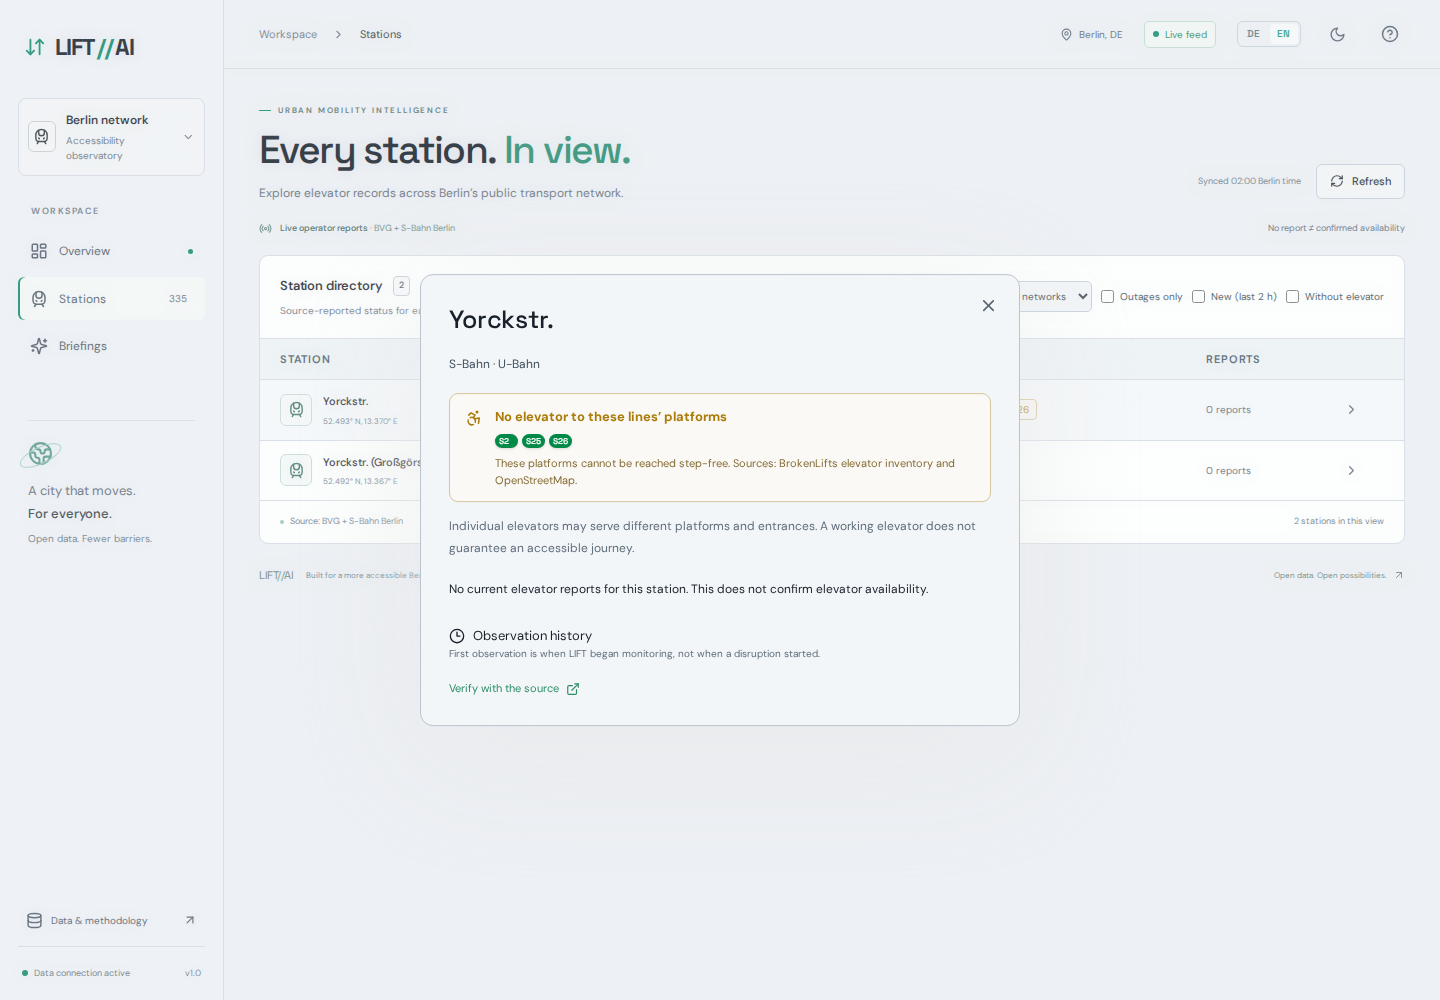
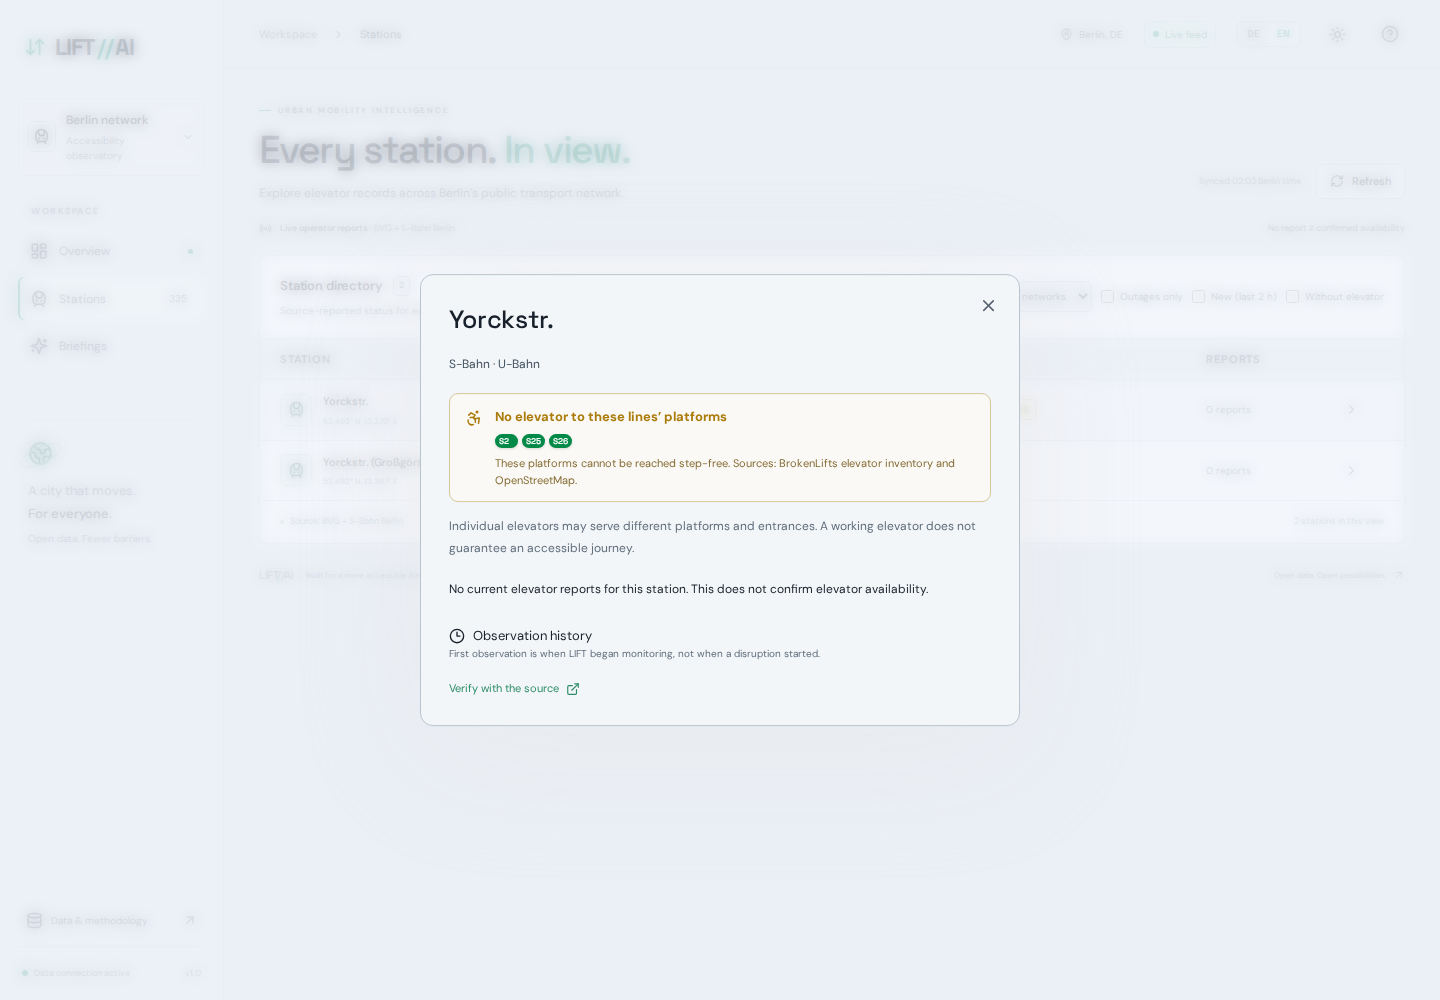
Theme menu: System (default), Light, Dark and Berlin daytime
System follows prefers-color-scheme and updates live; Daytime switches at
Berlin sunrise/sunset. The theme is resolved before first paint.

diff --git a/frontend/src/App.tsx b/frontend/src/App.tsx
@@ -1,9 +1,10 @@
 import {lazy,Suspense,useEffect,useMemo,useRef,useState,Component,type ReactNode} from 'react';
 import * as Dialog from '@radix-ui/react-dialog';
-import {Activity,ArrowDownUp,ArrowUpRight,ArrowRight,Box,Check,ChevronDown,ChevronRight,CircleHelp,Database,ExternalLink,Globe2,Layers,LayoutDashboard,LoaderCircle,MapPin,Maximize2,Menu,Radio,RefreshCw,Search,Send,Sparkles,TrainFront,TriangleAlert,X,Accessibility,Clock3,Pause,Play,Sun,Moon} from 'lucide-react';
+import {Activity,ArrowDownUp,ArrowUpRight,ArrowRight,Box,Check,ChevronDown,ChevronRight,CircleHelp,Database,ExternalLink,Globe2,Layers,LayoutDashboard,LoaderCircle,MapPin,Maximize2,Menu,Radio,RefreshCw,Search,Send,Sparkles,TrainFront,TriangleAlert,X,Accessibility,Clock3,Pause,Play,Sun,Moon,Monitor,SunMoon} from 'lucide-react';
 import {Button} from './components/ui/button';
 import type {Dashboard,Station,Briefing} from './types';
 import {strings,initialLang,saveLang,type Lang,type Strings} from './i18n';
+import {THEME_MODES,initialThemeMode,resolveTheme,saveThemeMode,type ThemeMode} from './theme';
 import lines from './data/lines.json';
 const lineColour=Object.fromEntries(lines.map(l=>[l.ref,l.colour]));
 const Network=lazy(()=>import('./components/Network'));
@@ -17,8 +18,15 @@ export default function App(){
  const [tab,setTab]=useState('Overview'),[mode,setMode]=useState('All networks'),[query,setQuery]=useState(''),[onlyOutages,setOnlyOutages]=useState(false),[noLiftOnly,setNoLiftOnly]=useState(false),[newOnly,setNewOnly]=useState(false),[view,setView]=useState('3d'),[reset,setReset]=useState(0),[selected,setSelected]=useState<Station|null>(null),[info,setInfo]=useState(false),[menu,setMenu]=useState(false),[full,setFull]=useState(false);
  const [reduced,setReduced]=useState(()=>window.matchMedia('(prefers-reduced-motion: reduce)').matches);
  const [lang,setLang]=useState<Lang>(initialLang),t=strings[lang];
- const [theme,setTheme]=useState<'light'|'dark'>(()=>document.documentElement.dataset.theme==='light'?'light':'dark');
- useEffect(()=>{document.documentElement.dataset.theme=theme;try{localStorage.setItem('lift-theme',theme);}catch{/* storage unavailable */}},[theme]);
+ const [themeMode,setThemeMode]=useState<ThemeMode>(initialThemeMode),[theme,setTheme]=useState(()=>resolveTheme(initialThemeMode())),[themeMenu,setThemeMenu]=useState(false),themeRef=useRef<HTMLDivElement>(null);
+ useEffect(()=>{
+  saveThemeMode(themeMode);const update=()=>setTheme(resolveTheme(themeMode));update();
+  // System follows OS changes live; daytime re-checks sunrise/sunset every minute.
+  const media=matchMedia('(prefers-color-scheme: dark)');media.addEventListener('change',update);const id=themeMode==='daytime'?setInterval(update,60000):undefined;
+  return()=>{media.removeEventListener('change',update);clearInterval(id);};
+ },[themeMode]);
+ useEffect(()=>{document.documentElement.dataset.theme=theme;},[theme]);
+ useEffect(()=>{if(!themeMenu)return;const close=(e:Event)=>{if(e instanceof KeyboardEvent?e.key==='Escape':!themeRef.current?.contains(e.target as Node))setThemeMenu(false);};document.addEventListener('pointerdown',close);document.addEventListener('keydown',close);return()=>{document.removeEventListener('pointerdown',close);document.removeEventListener('keydown',close);};},[themeMenu]);
  useEffect(()=>{document.documentElement.lang=lang;saveLang(lang);setChat([]);},[lang]);
  const [briefing,setBriefing]=useState<Briefing|null>(null),[aiReady,setAiReady]=useState(false),[question,setQuestion]=useState(''),[chat,setChat]=useState<{id:number;question:string;answer?:Briefing;error?:string}[]>([]),[asking,setAsking]=useState(false);
  const chatEnd=useRef<HTMLDivElement>(null);
@@ -42,7 +50,7 @@ export default function App(){
  <a className="skip-link" href="#main">{t.skip}</a>
  <aside className={`sidebar ${menu?'mobile-open':''}`}><a href="#" onClick={e=>{e.preventDefault();go('Overview');}} className="brand"><span className="brand-symbol"><ArrowDownUp size={22}/></span><span>LIFT<span className="slash">//</span>AI</span></a><div className="workspace"><span className="city-icon"><TrainFront size={17}/></span><div>{t.network}<small>{t.observatory}</small></div><ChevronDown size={14}/></div><div className="nav-caption">{t.workspace}</div><nav>{[{name:'Overview',icon:LayoutDashboard},{name:'Stations',icon:TrainFront},{name:'Briefings',icon:Sparkles}].map(({name,icon:Icon})=><button key={name} className={`nav-item ${tab===name?'active':''}`} onClick={()=>go(name)}><Icon size={18}/>{t.nav[name]}{name==='Stations'&&<span className="nav-count">{stats?.stations??'—'}</span>}{name==='Overview'&&<span className="nav-active-dot"/>}</button>)}</nav><div className="sidebar-note"><div className="orbit-icon"><Globe2 size={25}/></div><p>{t.tagline[0]}<br/><strong>{t.tagline[1]}</strong></p><span>{t.tagline[2]}</span></div><div className="sidebar-bottom"><button className="nav-item" onClick={()=>setInfo(true)}><Database size={17}/>{t.methodology}<ArrowUpRight size={14}/></button><div className="system-status"><i className={data&&!data.stale&&!error?'dot':'dot amber'}/><span>{data&&!data.stale&&!error?t.connectionActive:t.awaitingData}</span><span className="version">v1.0</span></div></div></aside>
  {menu&&<button className="mobile-backdrop" aria-label={t.closeNav} onClick={()=>setMenu(false)}/>}
- <div className="main-shell"><header className="topbar"><Button className="mobile-toggle" variant="ghost" size="icon" aria-label={t.openNav} onClick={()=>setMenu(!menu)}><Menu size={20}/></Button><div className="breadcrumb">{t.workspaceCrumb}<ChevronRight size={13}/><span>{t.nav[tab]}</span></div><div className="topbar-right"><span className="berlin-time"><MapPin size={13}/> {t.berlin}</span><span className={`live-pill ${data?.stale||error?'warn':''}`}><i className="dot"/>{error?t.live.issue:data?.stale?t.live.stale:data?t.live.live:t.live.connecting}</span><div className="lang-toggle" role="group" aria-label={t.language}>{(['de','en'] as Lang[]).map(l=><button key={l} lang={l} aria-pressed={lang===l} onClick={()=>setLang(l)}>{l.toUpperCase()}</button>)}</div><Button variant="ghost" size="icon" aria-label={theme==='dark'?t.themeLight:t.themeDark} onClick={()=>setTheme(theme==='dark'?'light':'dark')}>{theme==='dark'?<Sun size={17}/>:<Moon size={17}/>}</Button><Button variant="ghost" size="icon" aria-label={t.about} onClick={()=>setInfo(true)}><CircleHelp size={18}/></Button></div></header>
+ <div className="main-shell"><header className="topbar"><Button className="mobile-toggle" variant="ghost" size="icon" aria-label={t.openNav} onClick={()=>setMenu(!menu)}><Menu size={20}/></Button><div className="breadcrumb">{t.workspaceCrumb}<ChevronRight size={13}/><span>{t.nav[tab]}</span></div><div className="topbar-right"><span className="berlin-time"><MapPin size={13}/> {t.berlin}</span><span className={`live-pill ${data?.stale||error?'warn':''}`}><i className="dot"/>{error?t.live.issue:data?.stale?t.live.stale:data?t.live.live:t.live.connecting}</span><div className="lang-toggle" role="group" aria-label={t.language}>{(['de','en'] as Lang[]).map(l=><button key={l} lang={l} aria-pressed={lang===l} onClick={()=>setLang(l)}>{l.toUpperCase()}</button>)}</div><div className="theme-menu" ref={themeRef}><Button variant="ghost" size="icon" aria-label={`${t.theme.label}: ${t.theme[themeMode]}`} aria-haspopup="menu" aria-expanded={themeMenu} onClick={()=>setThemeMenu(!themeMenu)}>{theme==='dark'?<Moon size={17}/>:<Sun size={17}/>}</Button>{themeMenu&&<div className="theme-options" role="menu" aria-label={t.theme.label}>{THEME_MODES.map(m=>{const Icon={system:Monitor,light:Sun,dark:Moon,daytime:SunMoon}[m];return <button key={m} role="menuitemradio" aria-checked={themeMode===m} onClick={()=>{setThemeMode(m);setThemeMenu(false);}}><Icon size={15}/><span>{t.theme[m]}<small>{t.theme.hints[m]}</small></span>{themeMode===m&&<Check size={14}/>}</button>;})}</div>}</div><Button variant="ghost" size="icon" aria-label={t.about} onClick={()=>setInfo(true)}><CircleHelp size={18}/></Button></div></header>
  <main id="main"><div className="page-heading"><div><div className="eyebrow"><span/>{t.eyebrow}</div><h1>{t.heading[tab][0]}<span>{t.heading[tab][1]}</span></h1><p>{t.lead[tab]}</p></div><div className="heading-actions"><span className="last-sync">{data?t.synced(stamp(data.fetched_at)):t.establishing}</span><Button variant="outline" onClick={()=>setRefresh(v=>v+1)} disabled={loading}><RefreshCw size={14} className={loading?'spin':''}/>{t.refresh}</Button></div></div>
  {error&&<div className="notice" role="status"><TriangleAlert size={16}/>{error}{data&&t.showingLast}</div>}
  {data?.stale&&<div className="notice" role="status">{t.staleNotice}</div>}

diff --git a/frontend/index.html b/frontend/index.html
@@ -1,2 +1,2 @@
-<!doctype html><html lang="en"><head><meta charset="UTF-8"/><meta name="viewport" content="width=device-width, initial-scale=1.0"/><meta name="theme-color" content="#080b10"/><meta name="description" content="A clearer picture of accessible travel. Explore live elevator disruptions across Berlin's public transport network with LIFT//AI."/><title>LIFT//AI — Berlin, without barriers.</title><link rel="icon" type="image/svg+xml" href="/favicon.svg"/><link rel="stylesheet" href="https://fonts.googleapis.com/css2?family=DM+Sans:wght@400;450;500;550;600;650;700&amp;family=Space+Grotesk:wght@400;500;600;700&amp;display=swap"/>  <script>try{var t=localStorage.getItem('lift-theme');document.documentElement.dataset.theme=t==='light'||t==='dark'?t:matchMedia('(prefers-color-scheme: light)').matches?'light':'dark';}catch(e){document.documentElement.dataset.theme='dark';}</script>
+<!doctype html><html lang="en"><head><meta charset="UTF-8"/><meta name="viewport" content="width=device-width, initial-scale=1.0"/><meta name="theme-color" content="#080b10"/><meta name="description" content="A clearer picture of accessible travel. Explore live elevator disruptions across Berlin's public transport network with LIFT//AI."/><title>LIFT//AI — Berlin, without barriers.</title><link rel="icon" type="image/svg+xml" href="/favicon.svg"/><link rel="stylesheet" href="https://fonts.googleapis.com/css2?family=DM+Sans:wght@400;450;500;550;600;650;700&amp;family=Space+Grotesk:wght@400;500;600;700&amp;display=swap"/>  <script>/* Theme before first paint; daytime check mirrors isBerlinDaytime in src/theme.ts. */(function(){var m='system';try{m=localStorage.getItem('lift-theme')||'system';}catch(e){}function day(){var d=new Date(),r=Math.PI/180,n=(Date.UTC(d.getUTCFullYear(),d.getUTCMonth(),d.getUTCDate())-Date.UTC(d.getUTCFullYear(),0,0))/864e5,g=2*Math.PI/365*(n-1+(d.getUTCHours()-12)/24),eq=229.18*(.000075+.001868*Math.cos(g)-.032077*Math.sin(g)-.014615*Math.cos(2*g)-.040849*Math.sin(2*g)),de=.006918-.399912*Math.cos(g)+.070257*Math.sin(g)-.006758*Math.cos(2*g)+.000907*Math.sin(2*g)-.002697*Math.cos(3*g)+.00148*Math.sin(3*g),ha=Math.acos(Math.cos(90.833*r)/(Math.cos(52.52*r)*Math.cos(de))-Math.tan(52.52*r)*Math.tan(de))/r,no=720-4*13.405-eq,t=d.getUTCHours()*60+d.getUTCMinutes();return t>=no-4*ha&&t<no+4*ha;}document.documentElement.dataset.theme=m==='light'||m==='dark'?m:m==='daytime'?(day()?'light':'dark'):(matchMedia('(prefers-color-scheme: dark)').matches?'dark':'light');})();</script>
   </head><body><div id="root"></div><script type="module" src="/src/main.tsx"></script></body></html>

diff --git a/frontend/src/i18n.ts b/frontend/src/i18n.ts
@@ -8,7 +8,7 @@ const en={
  methodology:'Data & methodology',connectionActive:'Data connection active',awaitingData:'Awaiting fresh data',
  closeNav:'Close navigation',openNav:'Open navigation',berlin:'Berlin, DE',
  live:{issue:'Connection issue',stale:'Stale data',live:'Live feed',connecting:'Connecting'},
- about:'About this dashboard',language:'Language',themeLight:'Switch to light mode',themeDark:'Switch to dark mode',
+ about:'About this dashboard',language:'Language',theme:{label:'Theme',system:'System',light:'Light',dark:'Dark',daytime:'Daytime',hints:{system:'Follows your device setting',light:'Always light',dark:'Always dark',daytime:'Light from sunrise to sunset in Berlin'}},
  eyebrow:'URBAN MOBILITY INTELLIGENCE',
  heading:{Overview:['Berlin, without ','barriers.'],Stations:['Every station. ','In view.'],Briefings:['A clearer ','picture.']} as Record<string,[string,string]>,
  lead:{Overview:'Real-time elevator status. A more accessible journey.',Stations:'Explore elevator records across Berlin’s public transport network.',Briefings:'Grounded insights, built from the latest network observations.'} as Record<string,string>,
@@ -68,7 +68,7 @@ const de:Strings={
  methodology:'Daten & Methodik',connectionActive:'Datenverbindung aktiv',awaitingData:'Warte auf aktuelle Daten',
  closeNav:'Navigation schließen',openNav:'Navigation öffnen',berlin:'Berlin, DE',
  live:{issue:'Verbindungsproblem',stale:'Veraltete Daten',live:'Live-Feed',connecting:'Verbinde'},
- about:'Über dieses Dashboard',language:'Sprache',themeLight:'Zum hellen Design wechseln',themeDark:'Zum dunklen Design wechseln',
+ about:'Über dieses Dashboard',language:'Sprache',theme:{label:'Design',system:'System',light:'Hell',dark:'Dunkel',daytime:'Tageszeit',hints:{system:'Folgt der Einstellung deines Geräts',light:'Immer hell',dark:'Immer dunkel',daytime:'Hell zwischen Sonnenauf- und -untergang in Berlin'}},
  eyebrow:'URBANE MOBILITÄTSANALYSE',
  heading:{Overview:['Berlin, ohne ','Barrieren.'],Stations:['Jede Station. ','Im Blick.'],Briefings:['Ein klareres ','Bild.']},
  lead:{Overview:'Aufzugsstatus in Echtzeit. Für eine barrierefreiere Fahrt.',Stations:'Aufzugsdaten im gesamten Berliner Nahverkehr erkunden.',Briefings:'Fundierte Einblicke aus den aktuellen Netzbeobachtungen.'},

diff --git a/frontend/src/theme.ts b/frontend/src/theme.ts
@@ -1,0 +1,24 @@
+export type ThemeMode='system'|'light'|'dark'|'daytime';
+export type Theme='light'|'dark';
+export const THEME_MODES:ThemeMode[]=['system','light','dark','daytime'];
+
+// Sunrise/sunset for Berlin (NOAA approximation, ±2 min). Keep in sync with the copy in index.html.
+export function isBerlinDaytime(d=new Date()){
+ const rad=Math.PI/180,lat=52.52,lon=13.405;
+ const day=(Date.UTC(d.getUTCFullYear(),d.getUTCMonth(),d.getUTCDate())-Date.UTC(d.getUTCFullYear(),0,0))/864e5;
+ const g=2*Math.PI/365*(day-1+(d.getUTCHours()-12)/24);
+ const eq=229.18*(.000075+.001868*Math.cos(g)-.032077*Math.sin(g)-.014615*Math.cos(2*g)-.040849*Math.sin(2*g));
+ const decl=.006918-.399912*Math.cos(g)+.070257*Math.sin(g)-.006758*Math.cos(2*g)+.000907*Math.sin(2*g)-.002697*Math.cos(3*g)+.00148*Math.sin(3*g);
+ const ha=Math.acos(Math.cos(90.833*rad)/(Math.cos(lat*rad)*Math.cos(decl))-Math.tan(lat*rad)*Math.tan(decl))/rad;
+ const noon=720-4*lon-eq,now=d.getUTCHours()*60+d.getUTCMinutes();
+ return now>=noon-4*ha&&now<noon+4*ha;
+}
+export const systemTheme=():Theme=>matchMedia('(prefers-color-scheme: dark)').matches?'dark':'light';
+export function resolveTheme(mode:ThemeMode):Theme{
+ return mode==='system'?systemTheme():mode==='daytime'?(isBerlinDaytime()?'light':'dark'):mode;
+}
+export function initialThemeMode():ThemeMode{
+ try{const saved=localStorage.getItem('lift-theme');if(THEME_MODES.includes(saved as ThemeMode))return saved as ThemeMode;}catch{/* storage unavailable */}
+ return 'system';
+}
+export function saveThemeMode(mode:ThemeMode){try{localStorage.setItem('lift-theme',mode);}catch{/* storage unavailable */}}

diff --git a/frontend/tests/dashboard.spec.ts b/frontend/tests/dashboard.spec.ts
@@ -59,16 +59,21 @@ test('desktop network, directory, filters, details and map',async({page})=>{
  await page.screenshot({path:'../docs/screenshots/map.png',fullPage:true});
  expect(errors).toEqual([]);
 });
-test('light mode toggle persists',async({page})=>{
- await page.emulateMedia({colorScheme:'dark'});
+test('theme follows the system by default and can be chosen manually',async({page})=>{
+ await page.emulateMedia({colorScheme:'light'});
  await page.goto('/');
+ await expect(page.locator('html')).toHaveAttribute('data-theme','light');
+ await page.emulateMedia({colorScheme:'dark'});
  await expect(page.locator('html')).toHaveAttribute('data-theme','dark');
- await page.getByRole('button',{name:'Switch to light mode'}).click();
+ await page.getByRole('button',{name:/^Theme: System/}).click();
+ await page.getByRole('menuitemradio',{name:/^Light/}).click();
  await expect(page.locator('html')).toHaveAttribute('data-theme','light');
  expect(await page.evaluate(()=>getComputedStyle(document.body).backgroundColor)).toBe('rgb(238, 241, 245)');
  await page.reload();
  await expect(page.locator('html')).toHaveAttribute('data-theme','light');
- await page.getByRole('button',{name:'Switch to dark mode'}).click();
+ await page.getByRole('button',{name:/^Theme: Light/}).click();
+ await expect(page.getByRole('menuitemradio',{name:/^Daytime/})).toBeVisible();
+ await page.getByRole('menuitemradio',{name:/^System/}).click();
  await expect(page.locator('html')).toHaveAttribute('data-theme','dark');
 });
 test('mobile navigation, layout and station interaction',async({page})=>{

diff --git a/frontend/src/light.css b/frontend/src/light.css
@@ -182,6 +182,11 @@
 :root[data-theme=light] .status-badge.new{color:#49ac98;background:#7ee6cf}
 :root[data-theme=light] .status-badge.new i{background:#eff8f6}
 :root[data-theme=light] .new-foot{background:#7ee6cf;color:#49ac98}
+:root[data-theme=light] .theme-options{border:1px solid #c6d3dd;background:#f3f6f9f5;box-shadow:0 14px 36px #e6e6e699}
+:root[data-theme=light] .theme-options button{color:#24323a}
+:root[data-theme=light] .theme-options button:hover,:root[data-theme=light] .theme-options button:focus-visible{background:#fafbfc}
+:root[data-theme=light] .theme-options button[aria-checked=true]{color:#1e9a7e}
+:root[data-theme=light] .theme-options small{color:#637682}
 :root[data-theme=light]{color-scheme:light;color:#18212b;background:#eef1f5;--mint:#0f8a6c;--muted:#5d6a78;--border:#d5dce4;--panel:#ffffff}
 :root[data-theme=light] body{background:#eef1f5}
 :root[data-theme=light] .map-container .maplibregl-canvas{filter:saturate(.35) brightness(1.03)}

diff --git a/frontend/src/styles.css b/frontend/src/styles.css
@@ -93,3 +93,10 @@ td.muted div+div{margin-top:3px}
 @keyframes new-blink{50%{opacity:.25}}
 .new-foot{margin-left:8px;padding:1px 6px;border-radius:3px;background:#7ee6cf;color:#0b1a17;font-weight:700}
 @media (prefers-reduced-motion:reduce){.status-badge.new i{animation:none}}
+.theme-menu{position:relative}
+.theme-options{position:absolute;right:0;top:calc(100% + 6px);z-index:40;width:250px;padding:5px;border:1px solid #26343f;border-radius:9px;background:#101821f5;backdrop-filter:blur(8px);box-shadow:0 14px 36px #0009}
+.theme-options button{display:flex;align-items:center;gap:10px;width:100%;padding:8px 9px;border-radius:6px;text-align:left;color:#c5d3db;font-size:12px;cursor:pointer}
+.theme-options button:hover,.theme-options button:focus-visible{background:#1b2a33;outline:none}
+.theme-options button[aria-checked=true]{color:#7ee6cf}
+.theme-options span{flex:1;display:flex;flex-direction:column;gap:1px}
+.theme-options small{font-size:10px;color:#7d909c}

diff --git a/README.md b/README.md
@@ -20,7 +20,7 @@
 - **Stations without elevators**: 22 stations without any elevator (e.g. Nöldnerplatz, Moritzplatz, Gneisenaustraße) are listed, mapped in amber and filterable. Lines whose platforms have no elevator at otherwise accessible stations are flagged too, e.g. S2/S25/S26 at Yorckstraße. "No elevator" comes from the BrokenLifts elevator inventory. Stations missing from it are added only when OpenStreetMap also tags them `wheelchair=no`, and "not step-free" is stated only where OSM confirms it.
 - **New outages**: elevators that went out of service within the last 2 hours get a "New" badge in the station tables and their own filter. Outages already present when monitoring began are never marked new, because their start time is unknown.
 - **Map search**: find a station on the Berlin map. The map flies to it and highlights the marker.
-- **Light and dark mode**: the ☀/☾ button in the top bar switches themes. The first visit follows the system setting, and the choice is remembered. `frontend/src/light.css` is generated from the dark stylesheet by `scripts/build-light-theme.py`; re-run it after changing `styles.css`.
+- **Light and dark mode**: the theme menu in the top bar offers System (default, follows the device and updates live), Light, Dark and Daytime (light from sunrise to sunset in Berlin). The choice is remembered and applied before the first paint. `frontend/src/light.css` is generated from the dark stylesheet by `scripts/build-light-theme.py`; re-run it after changing `styles.css`.
 - **English and German**: a DE/EN switch translates the whole UI. The backend renders briefings and copilot answers in the selected language from the same evidence, so one cached Qwen selection serves both languages.
 
 ## How the AI avoids making things up
